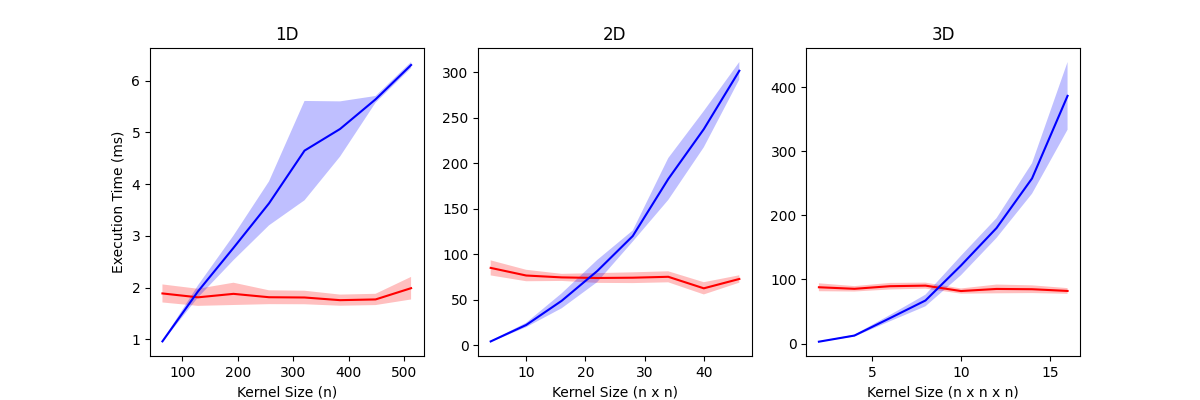
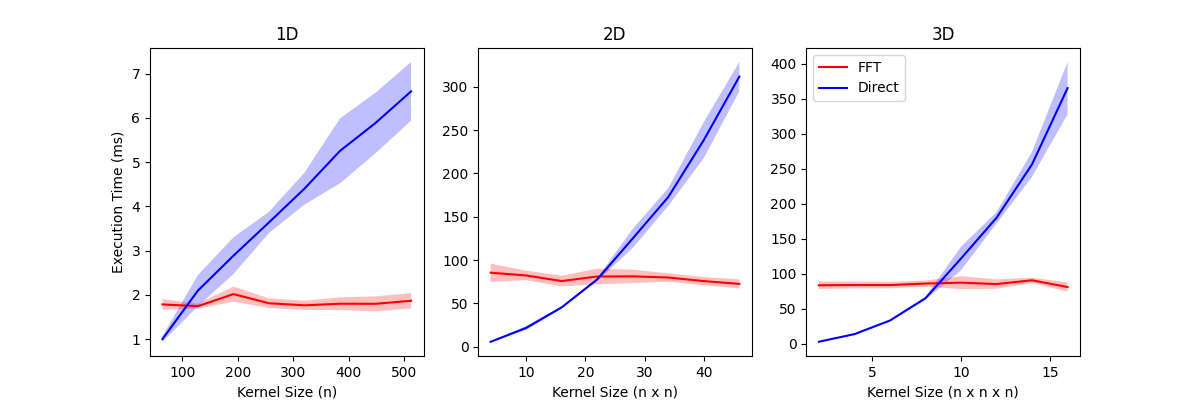
Add legend to plot, add more conv parameters to benchmark explanation

diff --git a/doc/scripts/generate_benchmark_plot.py b/doc/scripts/generate_benchmark_plot.py
@@ -141,4 +141,5 @@ if __name__ == "__main__":
         _plot_benchmarks(direct, config=config, ax=ax[0, i], color="b", label="Direct")
 
     ax[0, 0].set_ylabel("Execution Time (ms)")
+    plt.legend(["FFT", "Direct"])
     plt.savefig(os.path.join(save_dir, "benchmark.png"))

diff --git a/README.md b/README.md
@@ -54,10 +54,10 @@ Benchmarking FFT convolution against the direct convolution from PyTorch in 1D, 
 and 3D. The exact times are heavily dependent on your local machine, but relative 
 scaling with kernel size is always the same. 
 
-Num dimensions | Input Array Size
----------------|------------------
-1 | (4096)
-2 | (512, 512)
-3 | (64, 64, 64)
+Dimensions | Input Size   | Input Channels | Output Channels | Bias | Padding | Stride | Dilation
+-----------|--------------|----------------|-----------------|------|---------|--------|---------
+1          | (4096)       | 4              | 4               | True | 0       | 1      | 1
+2          | (512, 512)   | 4              | 4               | True | 0       | 1      | 1
+3          | (64, 64, 64) | 4              | 4               | True | 0       | 1      | 1
 
 ![Benchmark Plot](doc/benchmark.png)
